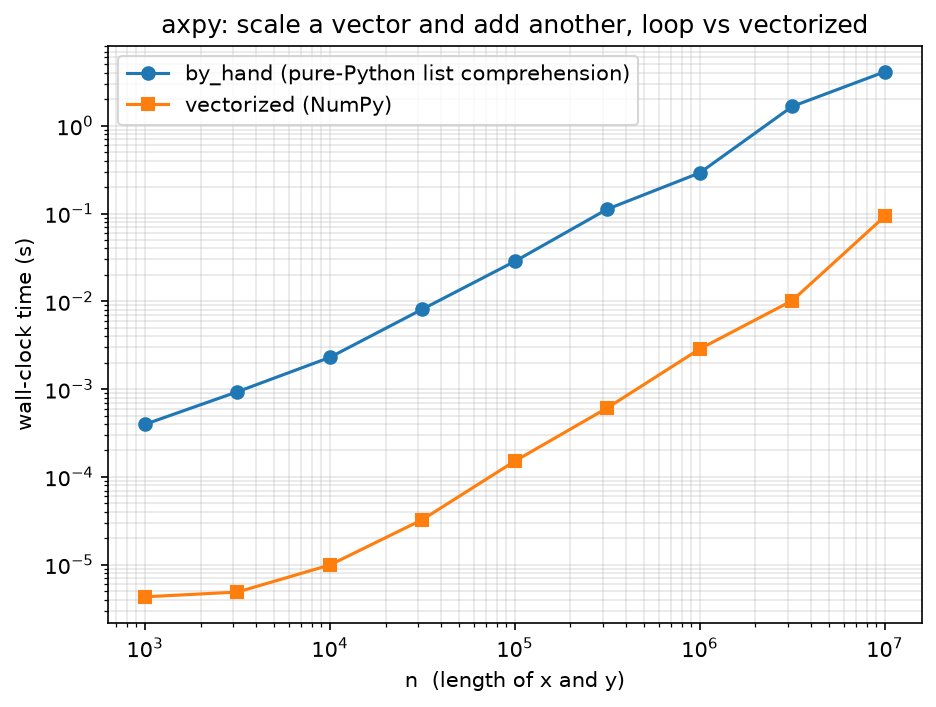
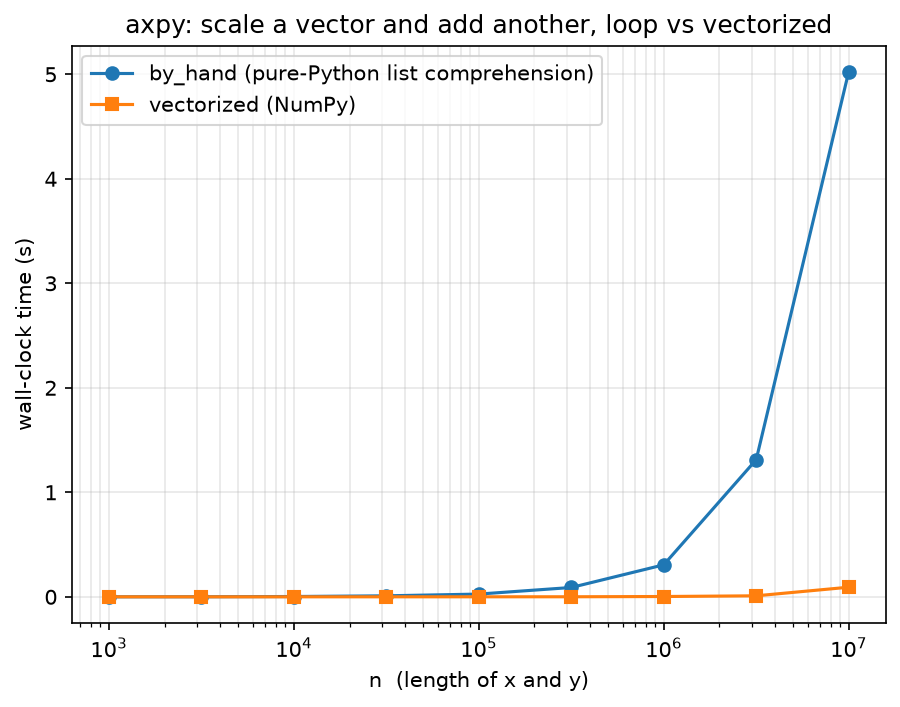
Ch 1 1.0: linear y-axis on Figure 1.0; call it the list comprehension throughout; factor ~50x
Claude-Session: https://claude.ai/code/session_01QHVo4KzARxbxqYrtrErhpz

diff --git a/chapter_drafts/clae-chapter-01/figures/fig_1_0_axpy.py b/chapter_drafts/clae-chapter-01/figures/fig_1_0_axpy.py
@@ -15,7 +15,7 @@ A = 2.5
 rng = np.random.default_rng(0)
 
 
-def by_hand(a, x, y):       # pure Python, one entry at a time
+def by_hand(a, x, y):       # pure Python, a list comprehension over the entries
     return [a * xi + yi for xi, yi in zip(x, y)]
 
 
@@ -47,8 +47,8 @@ print(f"n = {ns[-1]:,}:  by_hand {t_loop[-1]*1e3:.1f} ms   "
       f"vectorized {t_vec[-1]*1e3:.3f} ms   factor {factor:.0f}x")
 
 plt.figure(figsize=(7, 5))
-plt.loglog(ns, t_loop, "o-", label="by_hand (pure-Python list comprehension)")
-plt.loglog(ns, t_vec, "s-", label="vectorized (NumPy)")
+plt.semilogx(ns, t_loop, "o-", label="by_hand (pure-Python list comprehension)")
+plt.semilogx(ns, t_vec, "s-", label="vectorized (NumPy)")
 plt.xlabel("n  (length of x and y)")
 plt.ylabel("wall-clock time (s)")
 plt.title("axpy: scale a vector and add another, loop vs vectorized")

diff --git a/chapter_drafts/clae-chapter-01/1-vectors-and-linear-combinations.md b/chapter_drafts/clae-chapter-01/1-vectors-and-linear-combinations.md
@@ -20,7 +20,7 @@ We will compute axpy itself, on real arrays: two vectors `x` and `y` of ten mill
 ```python
 import numpy as np
 
-def by_hand(a, x, y):       # pure Python, one entry at a time
+def by_hand(a, x, y):       # pure Python, a list comprehension over the entries
     return [a * xi + yi for xi, yi in zip(x, y)]
 
 def vectorized(a, x, y):    # NumPy, the whole array at once
@@ -29,9 +29,9 @@ def vectorized(a, x, y):    # NumPy, the whole array at once
 
 ![axpy timing: loop vs vectorized](figures/fig_1_0_axpy.png)
 
-> **Figure 1.0.** Wall-clock time of `by_hand` (pure-Python list comprehension) against `vectorized` (NumPy) for axpy, swept over `n` from a thousand to ten million, log-log axes. The loop climbs in a straight line; the vectorized call stays near the floor. Measured on cc-host, a GCP e2-standard-4.
+> **Figure 1.0.** Wall-clock time of `by_hand` (a pure-Python list comprehension) against `vectorized` (NumPy) for axpy, swept over `n` from a thousand to ten million, with a log x-axis and a linear y-axis. The vectorized call stays flat against the floor while the list comprehension's cost climbs away. Measured on cc-host, a GCP e2-standard-4.
 
-Both return the same numbers; they do not take the same time. At ten million entries the Python loop takes about four seconds and the vectorized call about ninety milliseconds, a factor of forty-four. A gap that large is worth chasing.
+Both return the same numbers; they do not take the same time. At ten million entries the list comprehension takes around five seconds and the vectorized call about ninety milliseconds, a factor of roughly fifty. A gap that large is worth chasing.
 
 The loop is slow because Python is doing far more than arithmetic. For each of the ten million entries the interpreter resolves types, boxes and unboxes objects, checks bounds, and dispatches the operators, and only underneath all of that does it finally multiply and add. NumPy's `a * x + y` skips every bit of that per-entry overhead: the whole array goes to a compiled loop the interpreter never re-enters. That is where the gap comes from. It is a software win, not a hardware trick.
 